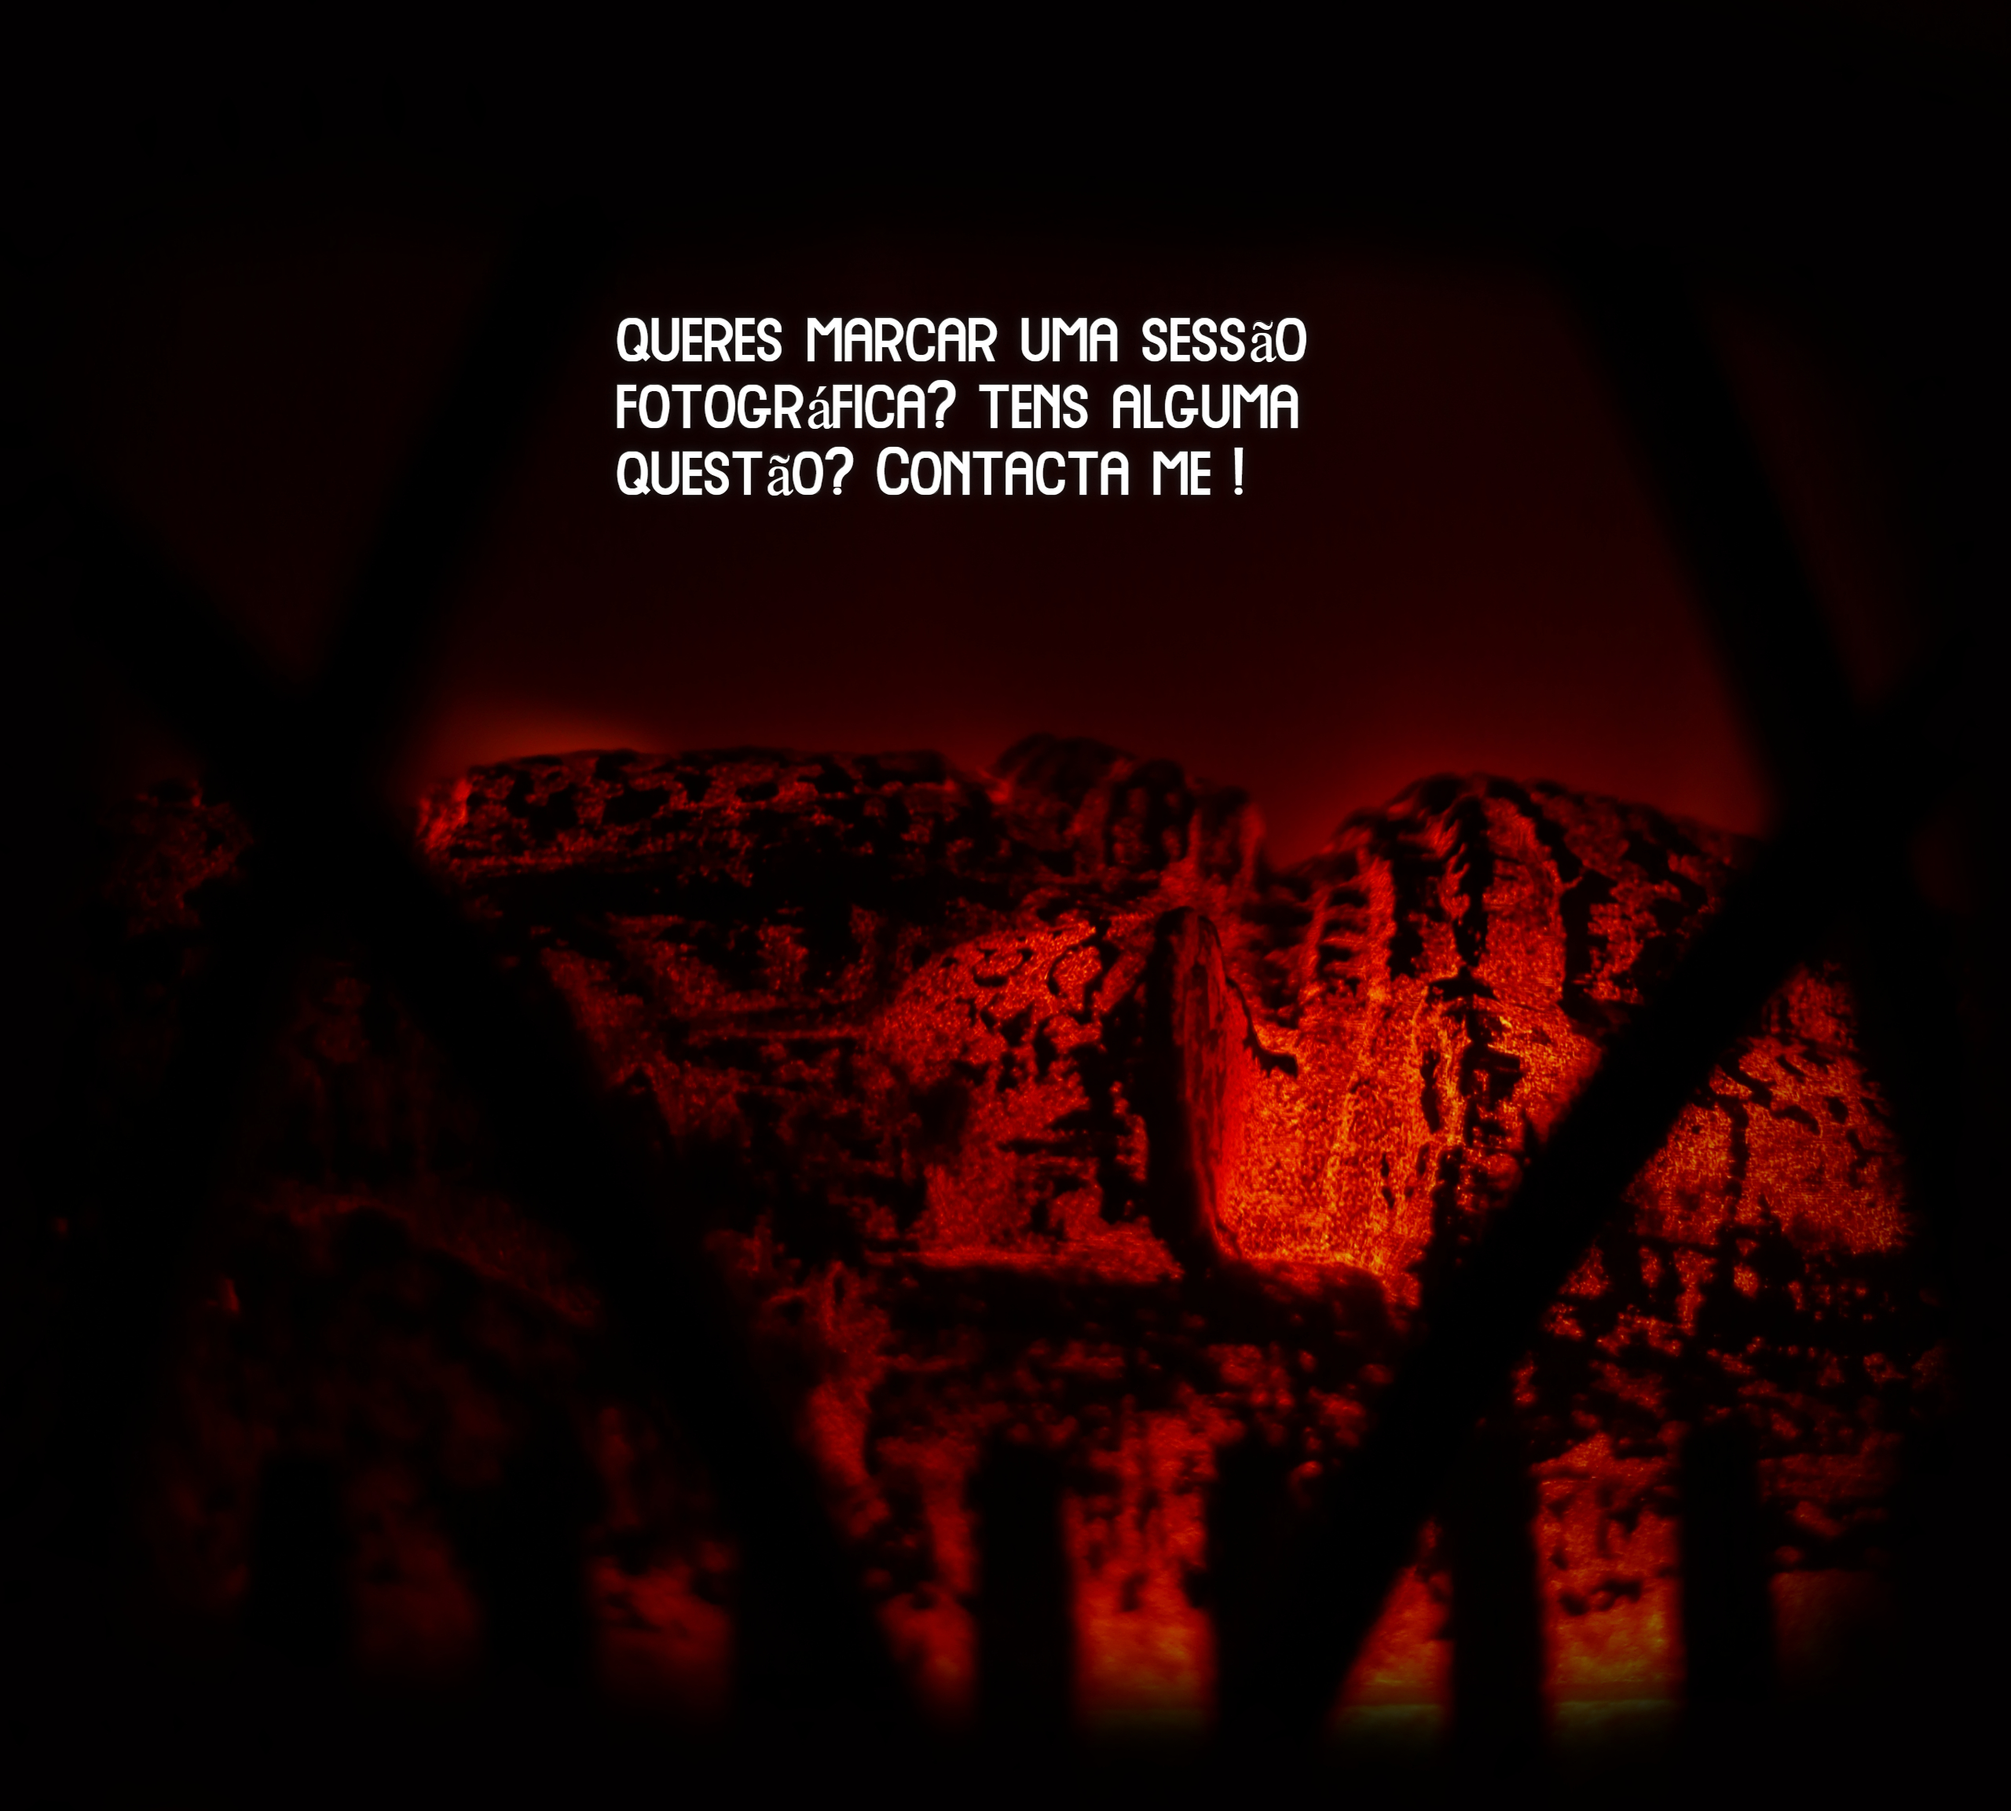
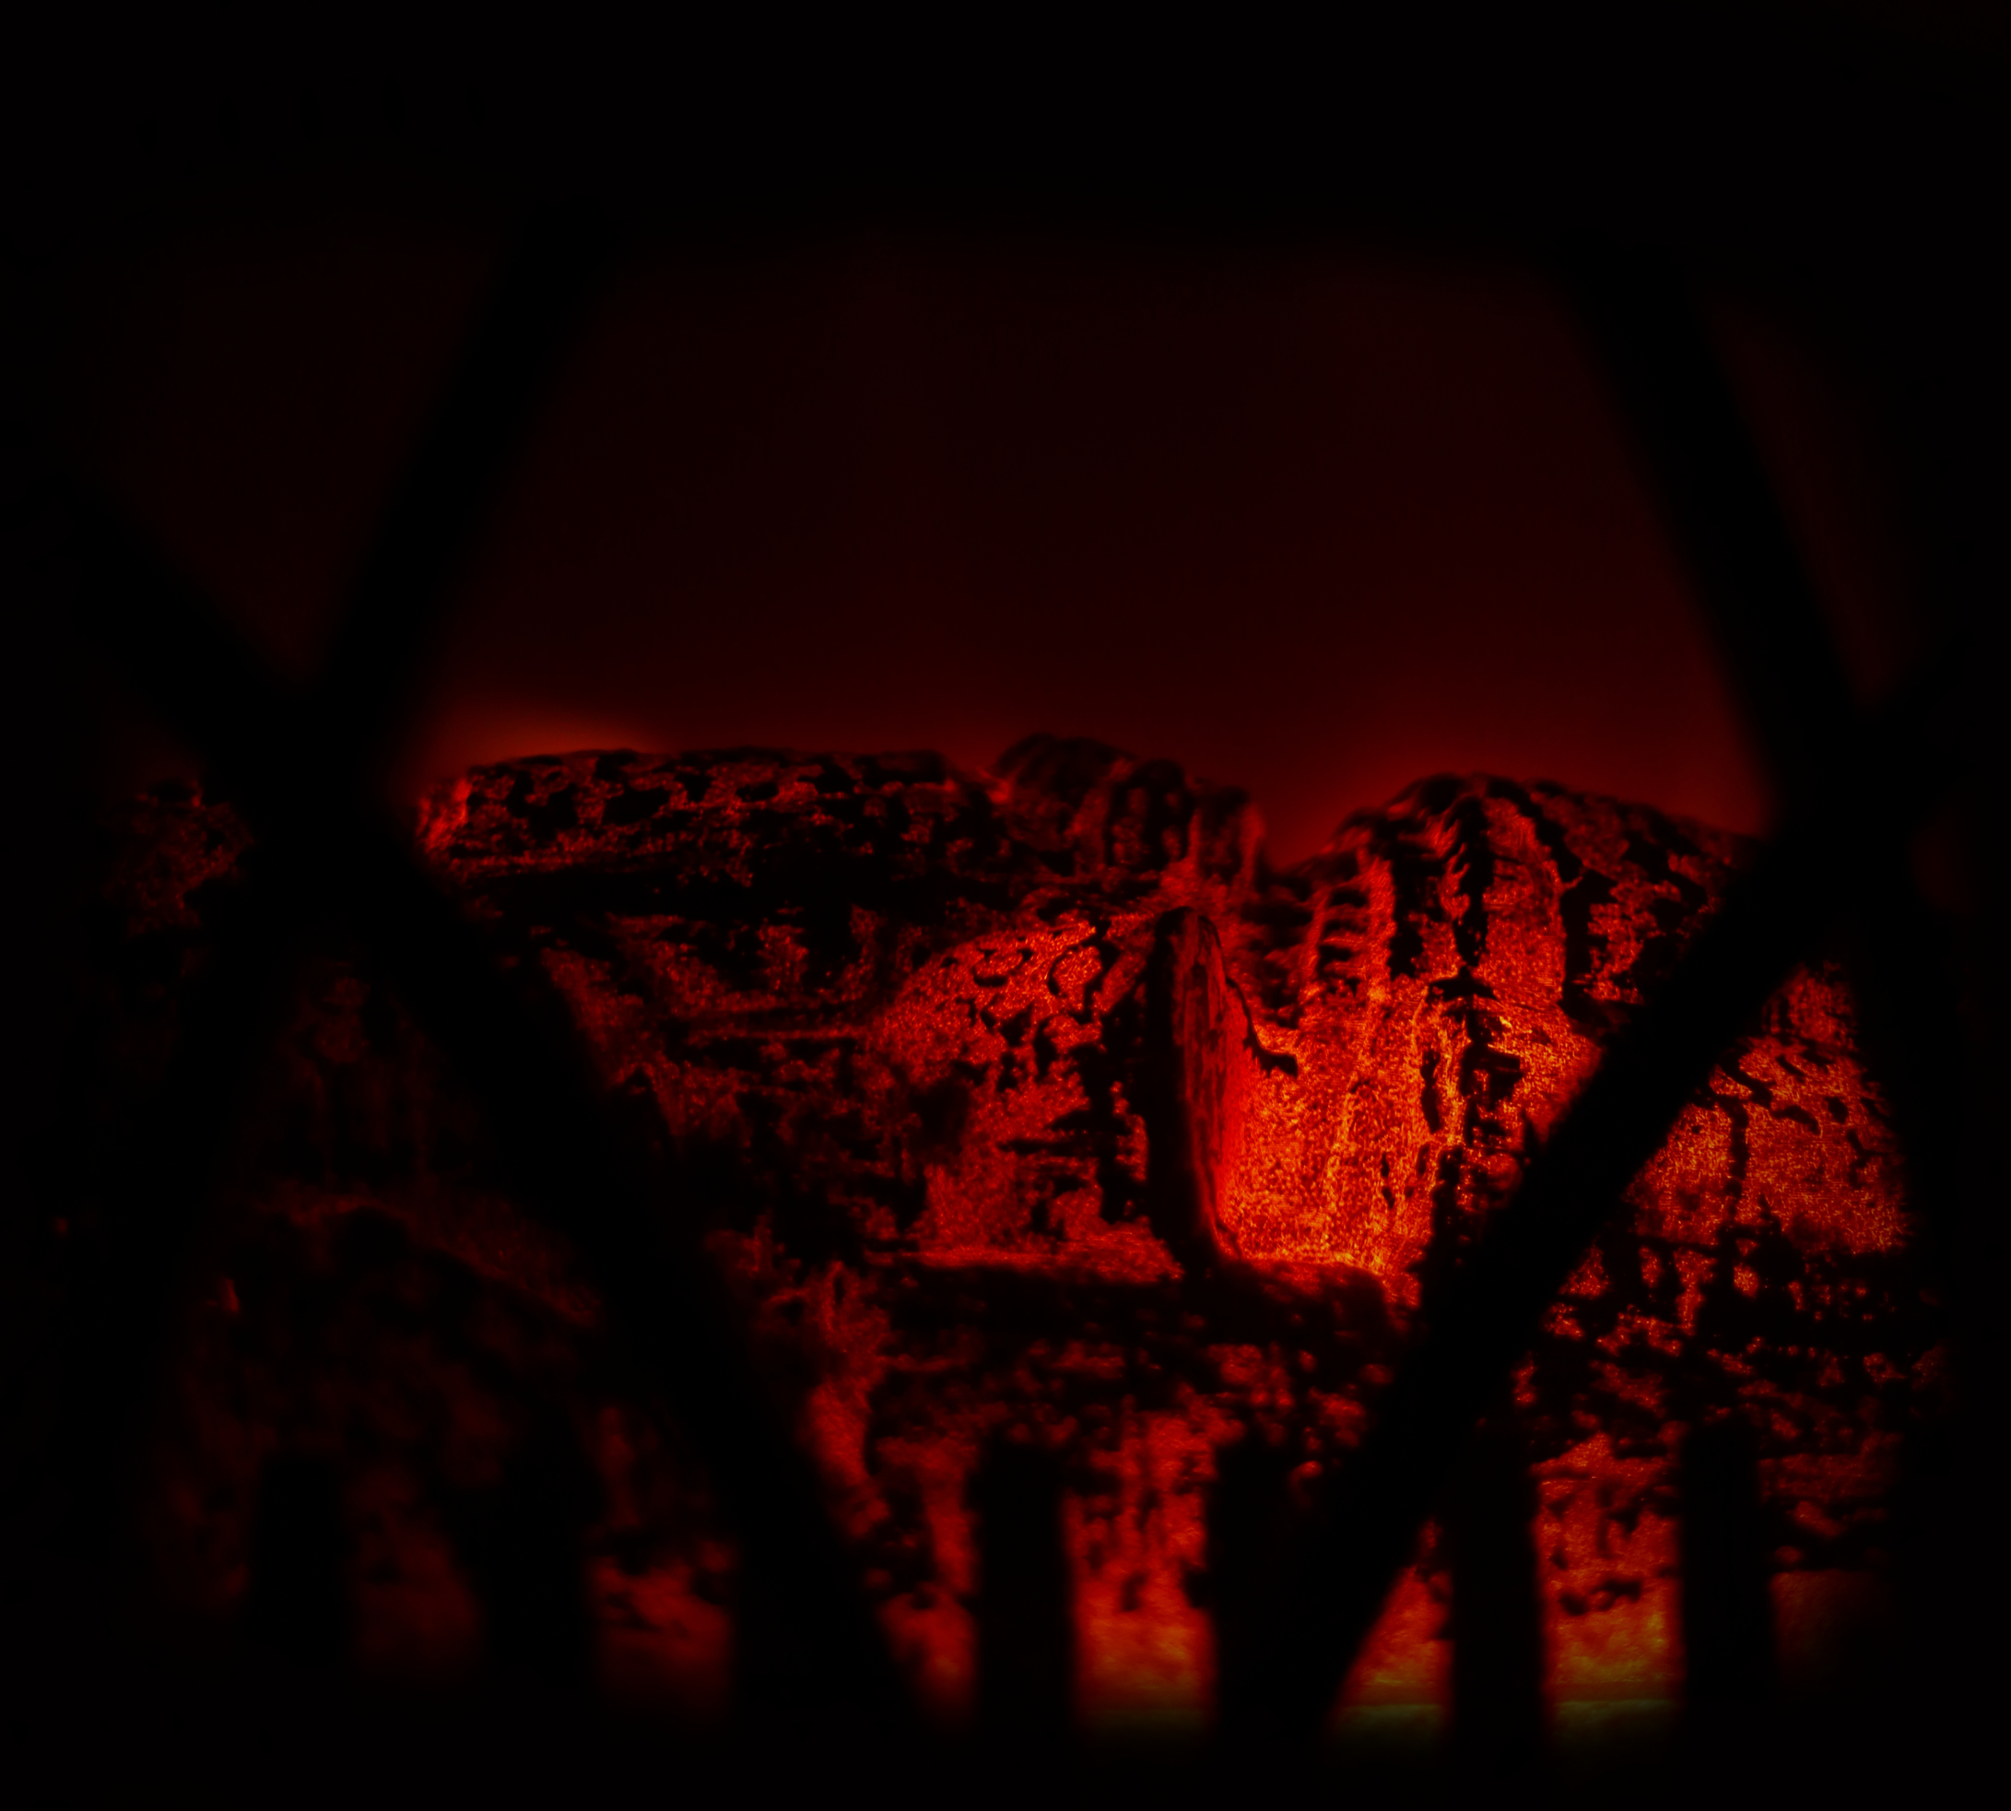
fixed photobooking structure

Changed region(s): [[0.3125, 0.1561, 0.6562, 0.281]]

diff --git a/styles.css b/styles.css
@@ -476,6 +476,7 @@ margin: 0 auto;
 
 
 .photoshoot-booking {
+    margin-top: 10vh;
     text-align: center;
     background: rgba(0, 0, 0, 0.6); /* Dark overlay for readability */
     color: #fff;
@@ -483,6 +484,7 @@ margin: 0 auto;
     border-radius: 12px;
     box-shadow: 30px 40px 70px rgba(255, 255, 255, 0.1);
     max-width: 500px;
+    max-height: 90vh;
     width: 90%;
     position: absolute;
 gap: 3vh;
@@ -495,6 +497,11 @@ gap: 3vh;
     opacity: 1;
 }
 
+.photoshoot-booking h3{
+    font-size: 1.3rem;
+    margin-bottom: 1rem;
+}
+
 .photoshoot-booking p {
     font-size: 1rem;
     margin-bottom: 1.5rem;
@@ -502,20 +509,11 @@ gap: 3vh;
 }
 
 /* Button */
-.btn {
-    display: inline-block;
-    padding: 0.75rem 1.5rem;
-    font-size: 1rem;
-    color: #fff;
-    background: #007bff;
-    border-radius: 8px;
-    text-decoration: none;
-    transition: background 0.3s;
-}
+
 
 .lang-toggle {
     margin-top: 1rem;
-    padding: 0.5rem 1rem;
+    padding: 0.3rem 0.8rem;
     font-size: 0.9rem;
     background: #333;
     color: #fff;
